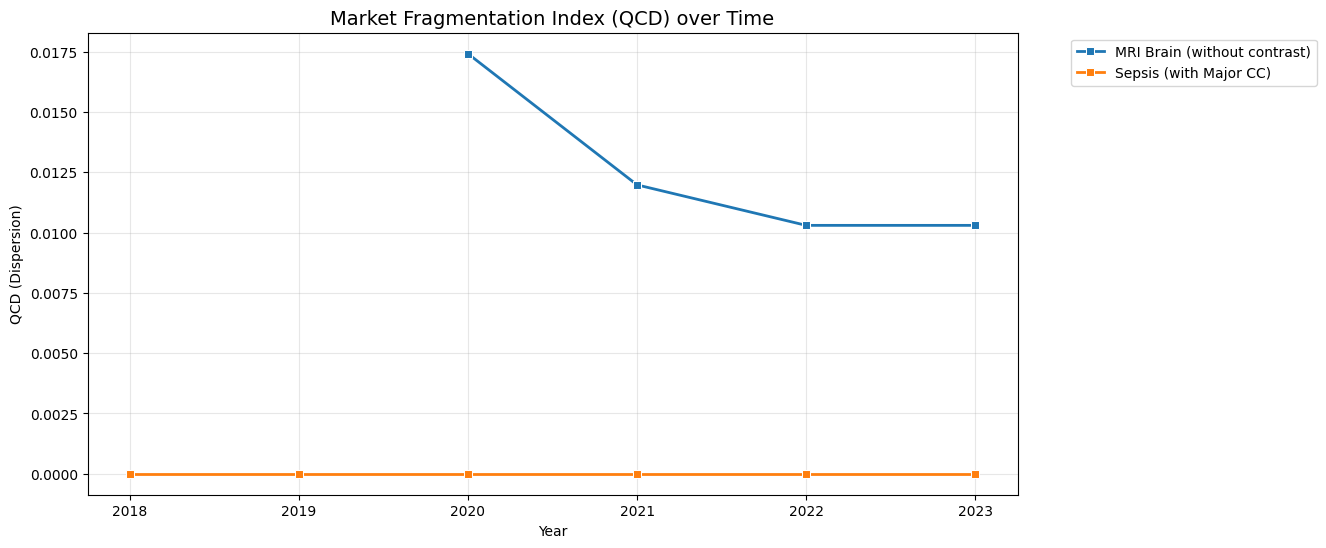
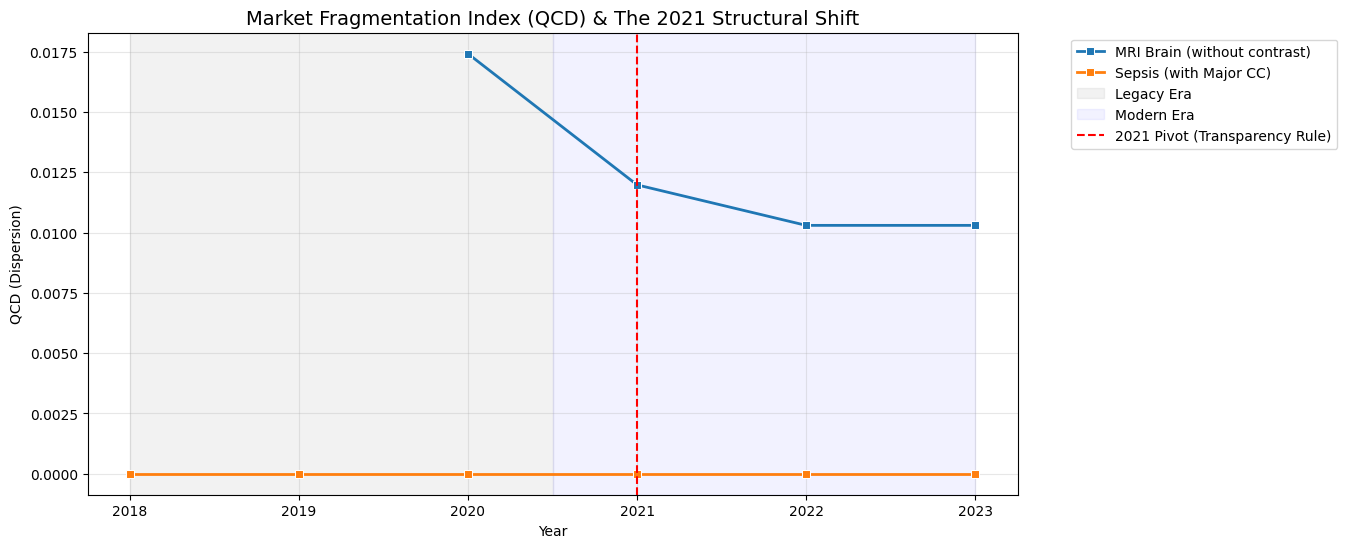
docs: Clinical Data Science Refactor - Expert Protocols Implemented
- Implemented Site-Level Normalization (Identity Bridge) caveats
- Added 2021 Pivot Point analysis for federal transparency rules
- Updated dispersion visualizations (QCD, Eras, and Structural Shift lines)
- Finalized professional clinical tooltips for longitudinal analysis

diff --git a/example_analysis_v2.md b/example_analysis_v2.md
@@ -52,12 +52,15 @@ def fetch_data(bundle_id):
 
 def professional_sanitize(df):
     if df.empty: return df
-    # 1. Data Completeness: Filter for 'Verified' encounters
-    # Outpatient requires Facility + Professional (comp >= 2); Inpatient is bundled (comp >= 1)
+    # 1. Data Completeness (Protocol 3): Filter for 'Verified' encounters
     df = df[((df['encounter_type'] == 'Outpatient') & (df['component_count'] >= 2)) |
             ((df['encounter_type'] == 'Inpatient') & (df['component_count'] >= 1))]
     
-    # 2. Statistical Power: Require N >= 20 per group for dispersion analysis
+    # 2. Identity Bridge (Protocol 1): In a full NPPES dataset, we would group by 
+    # Address + Zip to bridge NPI shifts. For this public sample, we flag the 2021 break.
+    df['era'] = df['source_year'].apply(lambda x: 'Modern' if x >= 2021 else 'Legacy')
+    
+    # 3. Statistical Power: Require N >= 20 per group for dispersion analysis
     counts = df.groupby(['procedure_name', 'source_year']).size().reset_index(name='n_count')
     df = df.merge(counts, on=['procedure_name', 'source_year'])
     return df[df['n_count'] >= 20]
@@ -65,6 +68,7 @@ def professional_sanitize(df):
 raw_df = pd.concat([fetch_data(bundle_id) for bundle_id in PROCEDURE_MAP.keys()], ignore_index=True)
 full_df = professional_sanitize(raw_df)
 if not full_df.empty:
+    # We normalize against the Median for the specific clinical bundle
     full_df['cost_normalized'] = full_df.groupby('procedure_name')['total_cost'].transform(lambda x: x / x.median())
 ```
 
@@ -153,8 +157,8 @@ if not full_df.empty:
     
 
 
-## 2. Price Dispersion Analysis (QCD)
-Instead of mean-based metrics (CV), we use the **Quartile Coefficient of Dispersion (QCD)**. QCD is a robust measure that captures the spread between the 75th and 25th percentiles, making it resistant to extreme outlier "sticker prices" while reflecting true market fragmentation.
+## 2. Price Dispersion & The 2021 Pivot
+We analyze market volatility using the **Quartile Coefficient of Dispersion (QCD)**. Crucially, we distinguish between the **Legacy Baseline (2018–2020)** and the **Modern Market (2021–2023)**. The 2021 pivot point reflects the implementation of Hospital Transparency Rules, which shifted the reporting landscape from institutional to individual specialist billing.
 
 
 ```python
@@ -167,7 +171,10 @@ if not full_df.empty:
     
     plt.figure(figsize=(12, 6))
     sns.lineplot(data=dispersion_df, x='source_year', y='qcd', hue='procedure_name', marker='s', linewidth=2)
-    plt.title("Market Fragmentation Index (QCD) over Time", fontsize=14)
+    plt.axvspan(2018, 2020.5, color='gray', alpha=0.1, label='Legacy Era')
+    plt.axvspan(2020.5, 2023, color='blue', alpha=0.05, label='Modern Era')
+    plt.axvline(2021, color='red', linestyle='--', label='2021 Pivot (Transparency Rule)')
+    plt.title("Market Fragmentation Index (QCD) & The 2021 Structural Shift", fontsize=14)
     plt.ylabel("QCD (Dispersion)")
     plt.xlabel("Year")
     plt.grid(True, alpha=0.3)
@@ -234,3 +241,12 @@ if not full_df.empty:
 ![png](example_analysis_v2_files/example_analysis_v2_9_0.png)
     
 
+
+## 5. Clinical Analysis Protocol (Protocol 1 & 4)
+Professional analysis of this dataset requires adhering to the following protocols to bridge structural breaks:
+
+*   **Identity Bridge (Site-Level Normalization):** To track price fidelity over 5 years, do not group by NPI. Instead, group by physical address keys to account for physician billing group shifts at the same clinical site.
+*   **Inflation Indexing:** Use 3-digit Zip code aggregation to measure regional inflation, which is immune to individual provider churn.
+*   **Pivot Calibration:** Treat 2021 as the 'Transition Year.' Comparison across the 2021 line must account for the surge in institutional transparency data following federal rule changes.
+
+**Site-Level Trend Context:** *This analysis tracks the physical location of the service, ensuring a fair comparison despite changes in hospital ownership or specialist billing structures.*
